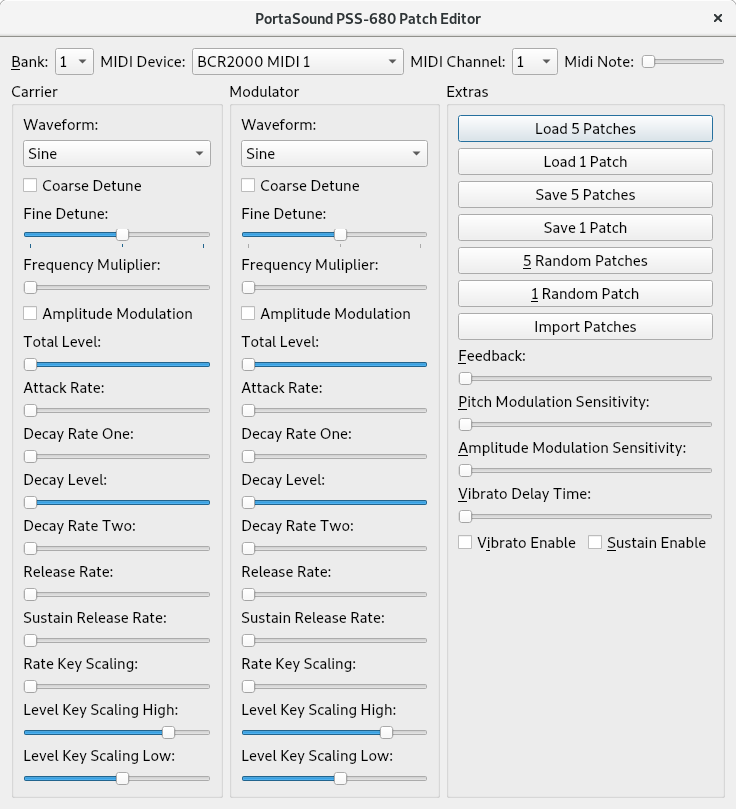
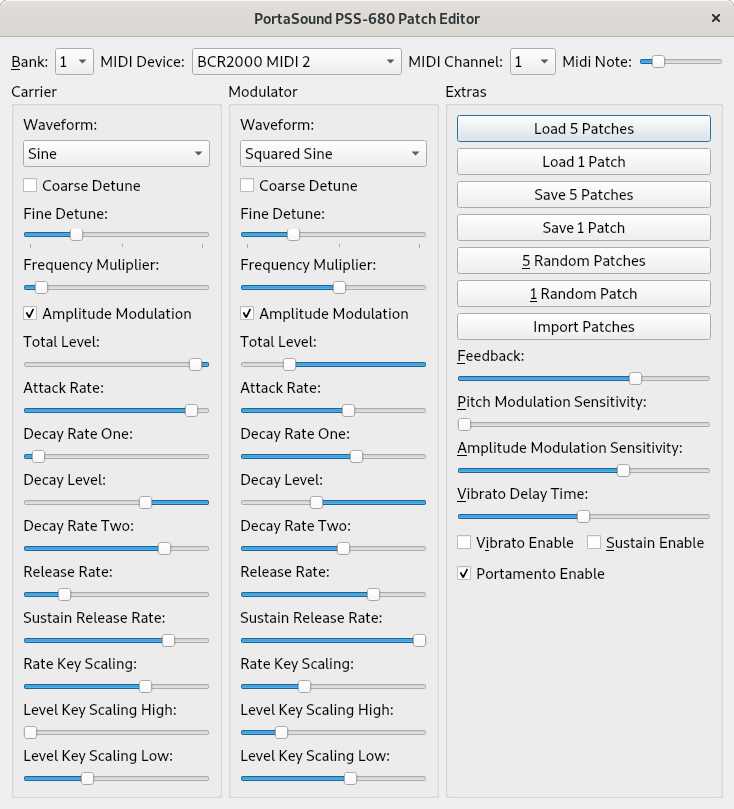
Add files via upload

diff --git a/PortaSound_PSS-680_mido.py b/PortaSound_PSS-680_mido.py
@@ -336,7 +336,7 @@ class PortaSound(QDialog):
 			checksum = self.writerandomchar(f,0,15,1,checksum)		# Modulator Release Rate
 			checksum = self.writerandomchar(f,0,15,1,checksum) 		# Carrier Decay 1 Level 
 			checksum = self.writerandomchar(f,0,15,1,checksum)		# Carrier Release Rate
-			checksum = self.writerandomchar(f,0,7,1,checksum) 		# Feedback 2 bits and an unknown mystery bit at 3 
+			checksum = self.writerandomchar(f,0,7,1,checksum) 		# Feedback 2 bits and an unknown mystery bit, I'm going to use this for portamento
 			checksum = self.writerandomchar(f,0,1,8,checksum)		# Feedback bit 4 only
 			checksum = self.writerandomchar(f,0,7,1,checksum) 		# Pitch Modulation sensitivity 3 bits 
 			checksum = self.writerandomchar2(f,[0,1,2,3,8,9,10,11],checksum) # Amplitude Modulation sensitivity 2 bits and an unknown bit at 4
@@ -390,6 +390,11 @@ class PortaSound(QDialog):
 		if self.sending == False:
 			msg = mido.Message('note_off', channel=self.midi_channel, note=self.midi_note, velocity=127)
 			self.outport.send(msg)
+
+	def portamento_switch(self,value):
+		if self.sending == False:	
+        		msg = mido.Message("control_change", channel=self.midi_channel, control=65, value=value)
+		        self.outport.send(msg)
 				
 	def send_to_mido(self,path):
 		messages = mido.read_syx_file(path)
@@ -972,6 +977,9 @@ class PortaSound(QDialog):
 		self.vibrato = QCheckBox("V&ibrato Enable")
 		self.vibrato.toggled.connect(self.changeVibrato)
 
+		self.portamento = QCheckBox("Portamento Enable")
+		self.portamento.toggled.connect(self.changePortamento)
+
 		extrasboxlayout.addWidget(feedbackLabel)
 		extrasboxlayout.addWidget(self.feedbackSlider)
 		extrasboxlayout.addWidget(pitchmodLabel)
@@ -986,6 +994,7 @@ class PortaSound(QDialog):
 		verybottomBox.addWidget(self.sustain)
 
 		extrasboxlayout.addLayout(verybottomBox)
+		extrasboxlayout.addWidget(self.portamento)
 
 		extrasboxlayout.addStretch(1)
 		self.extrasbox.setLayout(extrasboxlayout)
@@ -1088,6 +1097,16 @@ class PortaSound(QDialog):
 	def changeVibrato(self):
 		if len(self.patches) > 0:
 			self.patches[self.bank]['vibrato_enable'] = self.vibrato.isChecked()
+			self.write_and_send_patch(self.patches[self.bank],self.tmp_filename)
+
+	def changePortamento(self):
+		if len(self.patches) > 0:
+			self.patches[self.bank]['mystery_bit_1'] = self.portamento.isChecked()
+			if self.portamento.isChecked() == True:
+				value = 1
+			else:
+				value = 0
+			self.portamento_switch(value)
 			self.write_and_send_patch(self.patches[self.bank],self.tmp_filename)
 
 	def changeCST(self):
@@ -1324,6 +1343,7 @@ class PortaSound(QDialog):
 		self.vibdelaySlider.setValue(self.patches[self.bank]['vibrato_delay_time'])
 		self.sustain.setChecked(self.patches[self.bank]['sustain_enable'])
 		self.vibrato.setChecked(self.patches[self.bank]['vibrato_enable'])
+		self.portamento.setChecked(self.patches[self.bank]['mystery_bit_1'])
 
 		self.cstComboBox.setCurrentIndex(self.patches[self.bank]['carrier_sine_table'])
 		self.ccdetune.setChecked(self.patches[self.bank]['carrier_coarse_detune'])
@@ -1383,6 +1403,7 @@ class PortaSound(QDialog):
 		self.vibdelaySlider.setValue(0)
 		self.sustain.setChecked(False)
 		self.vibrato.setChecked(False)
+		self.portamento.setChecked(False)
 
 		self.cstComboBox.setCurrentIndex(0)
 		self.ccdetune.setChecked(False)
@@ -1444,6 +1465,7 @@ class PortaSound(QDialog):
 			patch['vibrato_delay_time'] = self.vibdelaySlider.value()
 			patch['sustain_enable'] = self.sustain.isChecked()
 			patch['vibrato_enable'] = self.vibrato.isChecked()
+			patch['mystery_bit_1'] = self.portamento.isChecked()
 			patch['carrier_sine_table'] = self.cstComboBox.currentIndex()
 			patch['carrier_coarse_detune'] = self.ccdetune.isChecked()
 			patch['carrier_fine_detune'] = self.detune[self.cfdetuneSlider.value()]
@@ -1527,7 +1549,7 @@ class PortaSound(QDialog):
 			self.importbutton.setEnabled(True)
 
 if __name__ == '__main__':
-	#os.environ['QT_SCALE_FACTOR'] = '1'
+	#os.environ['QT_SCALE_FACTOR'] = '1.5'
 	QApplication.setAttribute(Qt.AA_EnableHighDpiScaling)
 	app = QApplication(sys.argv)
 	p = PortaSound()
@@ -1536,7 +1558,6 @@ if __name__ == '__main__':
 	p.changeMIDIC()
 	p.changeMIDINote()			
 	p.show()
-	print(mido.backend)
 	app.exec_()
 	p.outport.close()
 	p.inport.close()
